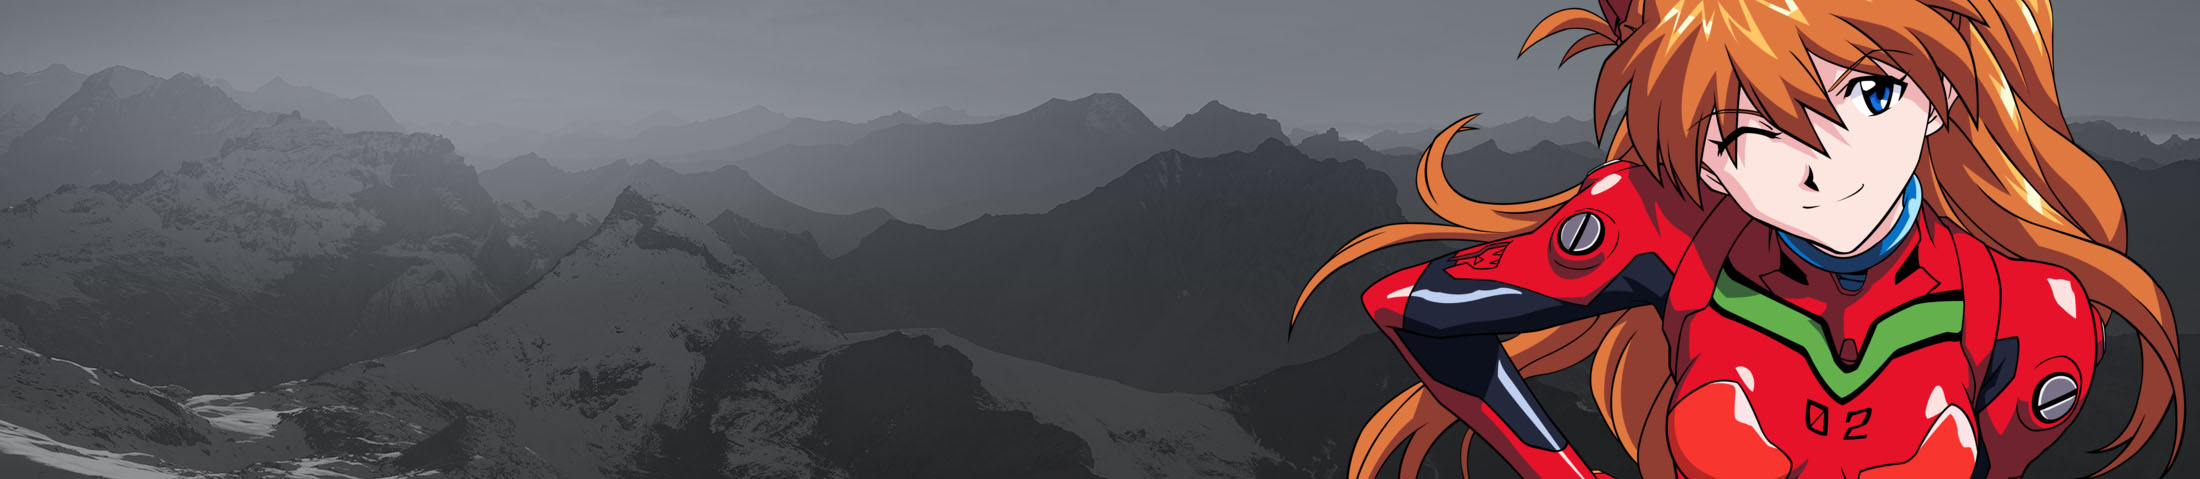
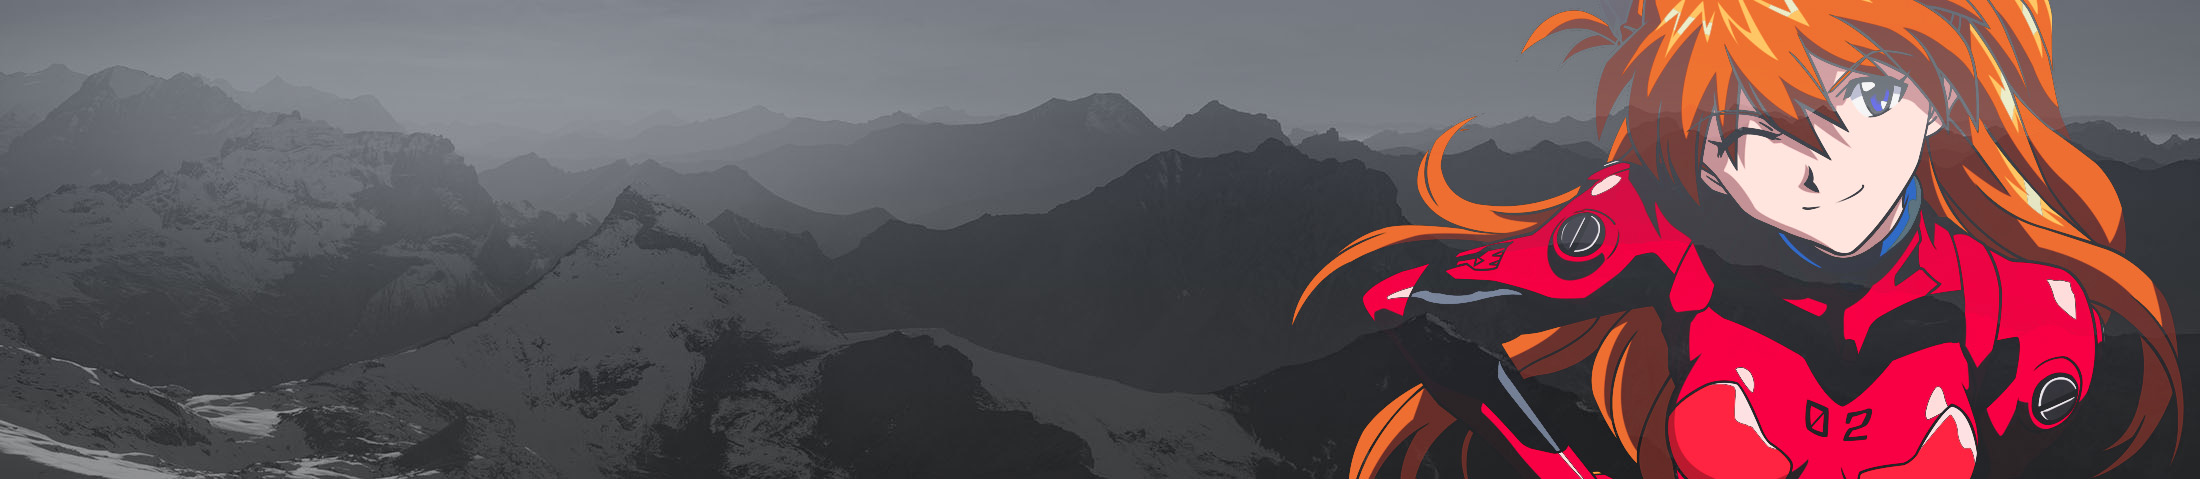
Home fixes

Changed region(s): [[0.5873, 0.0, 1.0, 1.0], [0.6491, 0.2338, 0.68, 0.3215]]

diff --git a/src/app/views/home/jumbotron/jumbotron.component.scss b/src/app/views/home/jumbotron/jumbotron.component.scss
@@ -5,11 +5,12 @@
   margin-top: -$grid-gutter-width;
   margin-left: -$grid-gutter-width;
   margin-right: -$grid-gutter-width;
-  height: rem(330px);
+  height: 0;
+  padding-bottom: 22.6%;
   position: relative;
-  background-image: url("src/assets/home-bg-azuca.jpg");
+  background-image: url("src/assets/home-bg.png");
   background-size: cover;
-  background-position: center;
+  background-position: center right;
   margin-bottom: $grid-gutter-width;
 
   @media (max-width: $small-breakpoints - 1px) {
